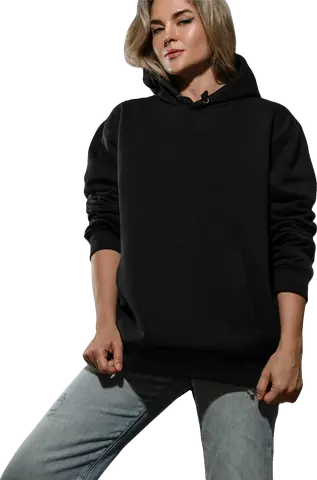
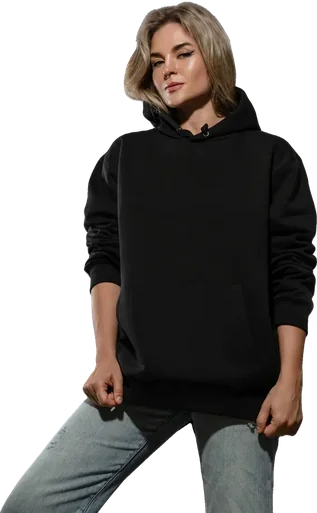
Homepage: see-through menu, model in black with full head, phone layout fixes
Claude-Session: https://claude.ai/code/session_01DxCmPqPMbjbw1Nd9aAFxAq

diff --git a/src/styles/hero.css b/src/styles/hero.css
@@ -151,10 +151,7 @@
 
 .hb-model--grey{ left:-2%; height:74%; z-index:1; }
 .hb-model--couple{ left:12%; height:84%; z-index:2; }
-/* The model in black is cropped at the top of her head in the photo, so she
-   reaches up under the green header (a few pixels past the top of the group)
-   and the crop is never seen. */
-.hb-model--black{ left:47%; height:calc(100% + 6px); z-index:4; }
+.hb-model--black{ left:47%; height:98%; z-index:4; }
 .hb-model--white{ left:76%; height:88%; z-index:3; }
 
 .hb-floor{
@@ -169,6 +166,9 @@
 }
 
 /*---------- full-bleed wallpaper (Christmas) ----------*/
+
+/* The wallpaper starts just under the menu and fades in from the colour of
+   its own paper, so the gift boxes never sit behind the logo or the links. */
 
 .hb-bg{
     position:absolute;
@@ -185,22 +185,32 @@
     object-position:center;
 }
 
-.hb--christmas{ background:#EFE6D8; }
+.hb--christmas{ background:#F7F1E3; }
+
+.hb--christmas .hb-bg{
+    top:calc(var(--head) - 40px);
+    -webkit-mask-image:linear-gradient(to bottom, transparent 0, #000 70px);
+    mask-image:linear-gradient(to bottom, transparent 0, #000 70px);
+}
 
 /*---------- photo on the right (hoodies, tees) ----------*/
 
 .hb--hoodies{ background:#ACA9A6; }
 .hb--tees{ background:linear-gradient(110deg, #F1DDE2 0%, #DCCFE3 100%); }
 
+/* The photo fades in from the left (towards the text) and from the top
+   (under the menu). */
 .hb-photo{
     position:absolute;
-    top:0;
+    top:calc(var(--head) - 40px);
     right:0;
     bottom:0;
     width:62%;
     z-index:0;
-    -webkit-mask-image:linear-gradient(to right, transparent 0%, #000 22%);
-    mask-image:linear-gradient(to right, transparent 0%, #000 22%);
+    -webkit-mask-image:linear-gradient(to right, transparent 0%, #000 22%), linear-gradient(to bottom, transparent 0, #000 80px);
+    -webkit-mask-composite:source-in;
+    mask-image:linear-gradient(to right, transparent 0%, #000 22%), linear-gradient(to bottom, transparent 0, #000 80px);
+    mask-composite:intersect;
 }
 
 .hb-photo img{
@@ -295,7 +305,7 @@
 
 @media (max-width:1023px){
     .hero{
-        --hb-h:clamp(600px, 150vw, 760px);
+        --hb-h:clamp(640px, 170vw, 820px);
     }
 
     .hb{
@@ -321,10 +331,29 @@
         font-size:.95rem;
     }
 
+    /* The models sit straight under the menu and the text follows below
+       them, so the pictures never cover the buttons. */
+    .hb--models{
+        flex-direction:column;
+        align-items:stretch;
+    }
+
     .hb-models{
+        position:relative;
         top:auto;
+        right:auto;
+        bottom:auto;
+        flex:1 1 auto;
         width:100%;
-        height:52%;
+        height:auto;
+        min-height:0;
+        -webkit-mask-image:linear-gradient(to bottom, #000 82%, transparent);
+        mask-image:linear-gradient(to bottom, #000 82%, transparent);
+    }
+
+    .hb--models .hb-copy{
+        padding-top:22px;
+        padding-bottom:76px;
     }
 
     .hb-word{
@@ -334,7 +363,7 @@
 
     .hb-model--grey{ display:none; }
     .hb-model--couple{ left:-4%; height:82%; }
-    .hb-model--black{ left:36%; height:100%; }
+    .hb-model--black{ left:36%; height:97%; }
     .hb-model--white{ left:70%; height:86%; }
 
     .hb-photo{
@@ -342,7 +371,18 @@
         width:100%;
         height:50%;
         -webkit-mask-image:linear-gradient(to bottom, transparent 0%, #000 22%);
+        -webkit-mask-composite:source-over;
         mask-image:linear-gradient(to bottom, transparent 0%, #000 22%);
+        mask-composite:add;
+    }
+
+    /* On narrow screens the whole wallpaper sits at the bottom, so both
+       stacks of gifts show, and fades into the paper colour above it. */
+    .hb--christmas .hb-bg{
+        top:auto;
+        height:67vw;
+        -webkit-mask-image:linear-gradient(to bottom, transparent 0, #000 60px);
+        mask-image:linear-gradient(to bottom, transparent 0, #000 60px);
     }
 
     .hero-controls{ bottom:14px; }

diff --git a/src/styles/navbar.css b/src/styles/navbar.css
@@ -30,40 +30,12 @@
 }
 
 /* Home page at the very top (and nothing open in the header): the menu row
-   is forest green, the same green as the top bar and the big "Calm Canvas"
-   word in the first banner, with white type and a white logo. It turns
-   white as soon as the page scrolls or a menu opens. */
+   is see-through, so the banner shows behind it. It turns solid white as
+   soon as the page scrolls or a menu opens. Every home banner is light at
+   the top, so the dark menu text stays readable. */
 .navbar--top {
-  background: var(--c-forest);
-  border-bottom-color: var(--c-forest);
-}
-
-.navbar--top .navbar-logo img {
-  filter: brightness(0) invert(1);
-}
-
-.navbar--top .navbar-brand .brand-name,
-.navbar--top .navbar-links > a,
-.navbar--top .navbar-links > a.active,
-.navbar--top .nav-dd-toggle,
-.navbar--top .navbar-icon,
-.navbar--top .navbar-menu-button {
-  color: #FFFFFF;
-}
-
-.navbar--top .navbar-icon:hover,
-.navbar--top .navbar-menu-button:hover {
-  background: rgba(255, 255, 255, 0.14);
-}
-
-.navbar--top .navbar-cart-count {
-  background: #FFFFFF;
-  color: var(--c-forest);
-}
-
-.navbar--top a:focus-visible,
-.navbar--top button:focus-visible {
-  outline-color: #FFFFFF;
+  background: transparent;
+  border-bottom-color: transparent;
 }
 
 .navbar-inner {

diff --git a/src/components/layout/Navbar.jsx b/src/components/layout/Navbar.jsx
@@ -157,8 +157,8 @@ function Navbar() {
   }
 
   // On the home page, while it is scrolled to the very top and nothing is
-  // open in the header, the menu row is forest green with white type
-  // (navbar.css). Any scroll, menu or search turns it white.
+  // open in the header, the menu row is see-through so the banner shows
+  // behind it (navbar.css). Any scroll, menu or search makes it solid.
   const underHero = isHome && atTop && !menuOpen && !searchOpen && !shopOpen;
 
   return (
